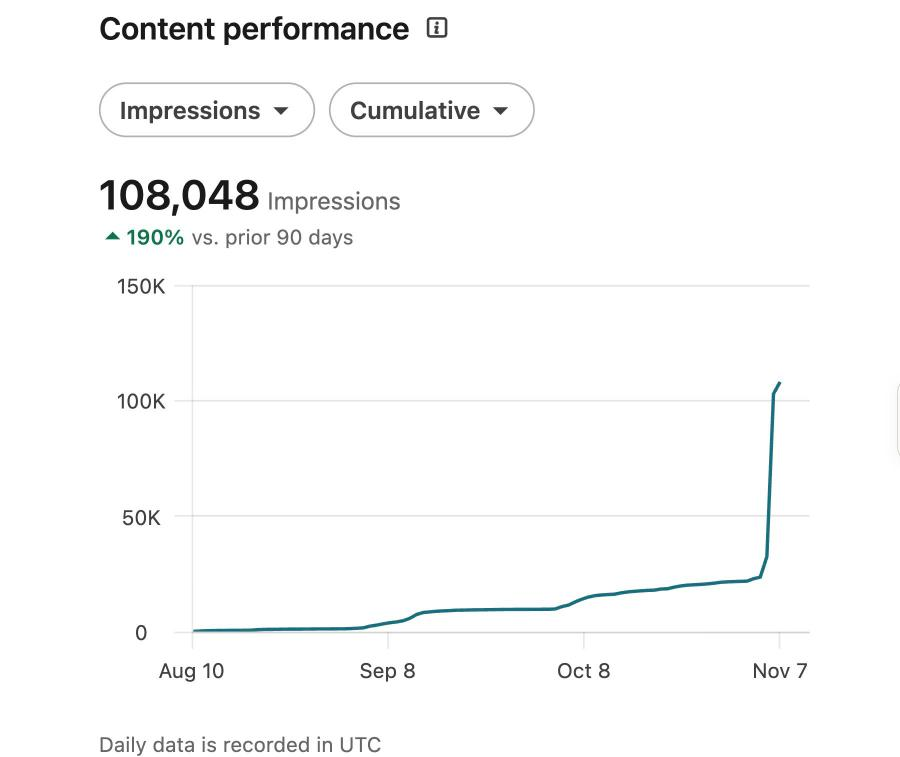
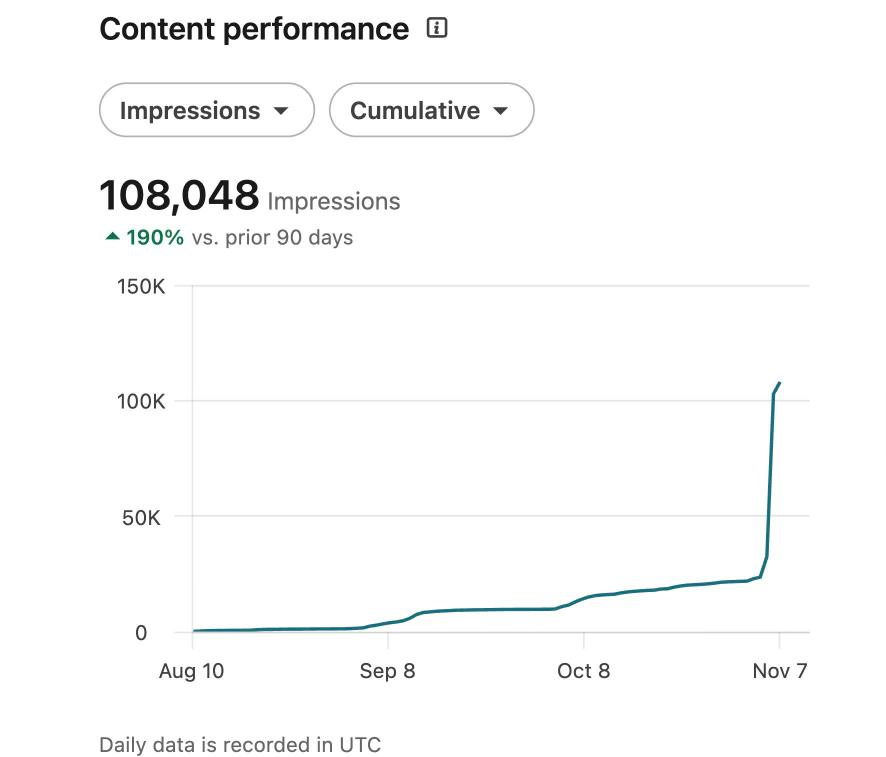
site: results screenshot as real PNG, cropped; 108,048 in the landing text
Claude-Session: https://claude.ai/code/session_01DDQzb8QQirfHsjgJeXMfFh

diff --git a/docs/index.html b/docs/index.html
@@ -59,8 +59,8 @@ RESULT: PASS</pre>
 
 <section id="results">
 <h2><svg class="green" viewBox="0 0 24 24" fill="none" stroke="currentColor" stroke-width="2" stroke-linecap="round" stroke-linejoin="round"><path d="M3 20h18M5 16l4-5 4 3 6-8"/></svg>Results</h2>
-<p>I am the first user. Under 5K followers, running it every day since September 2026. This is my LinkedIn analytics page on November 7: 108,034 impressions in 90 days, 190% more than the 90 days before, 91% of them from outside my network. One post, a conversation with a YC partner, did 85,934 of them; my median post does about 1,100.</p>
-<img class="shot" src="results-90d.png" alt="LinkedIn content analytics: 108,034 impressions in 90 days, up 190%, flat until October and near vertical in the first week of November">
+<p>I am the first user. Under 5K followers, running it every day since September 2026. This is my LinkedIn analytics page on November 7: 108,048 impressions in 90 days, 190% more than the 90 days before, 91% of them from outside my network. One post, a conversation with a YC partner, did 85,934 of them; my median post does about 1,100.</p>
+<img class="shot" src="results-90d.png" alt="LinkedIn content analytics: 108,048 impressions in 90 days, up 190%, flat until October and near vertical in the first week of November">
 </section>
 
 <section id="strategies">
